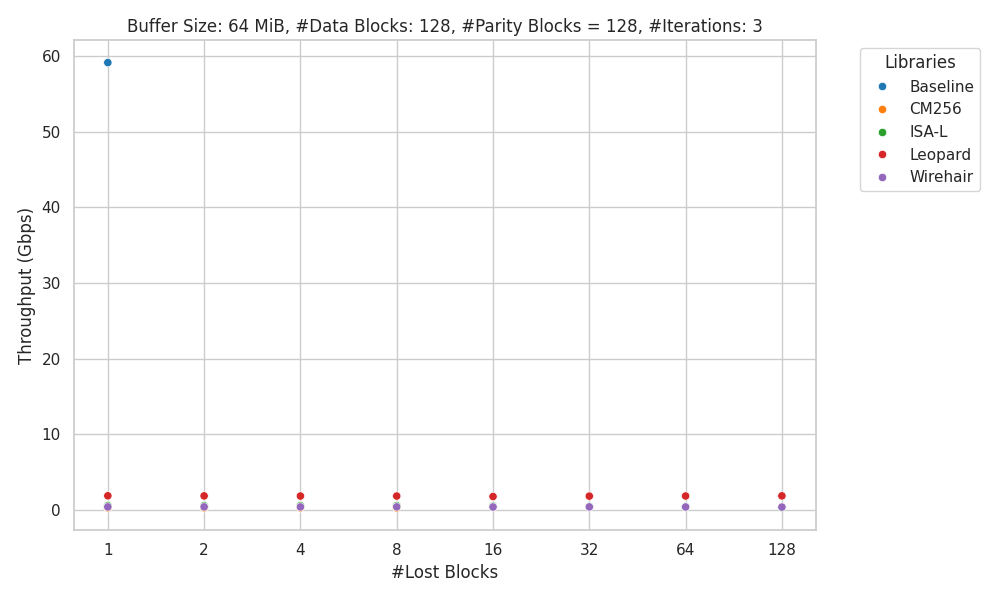
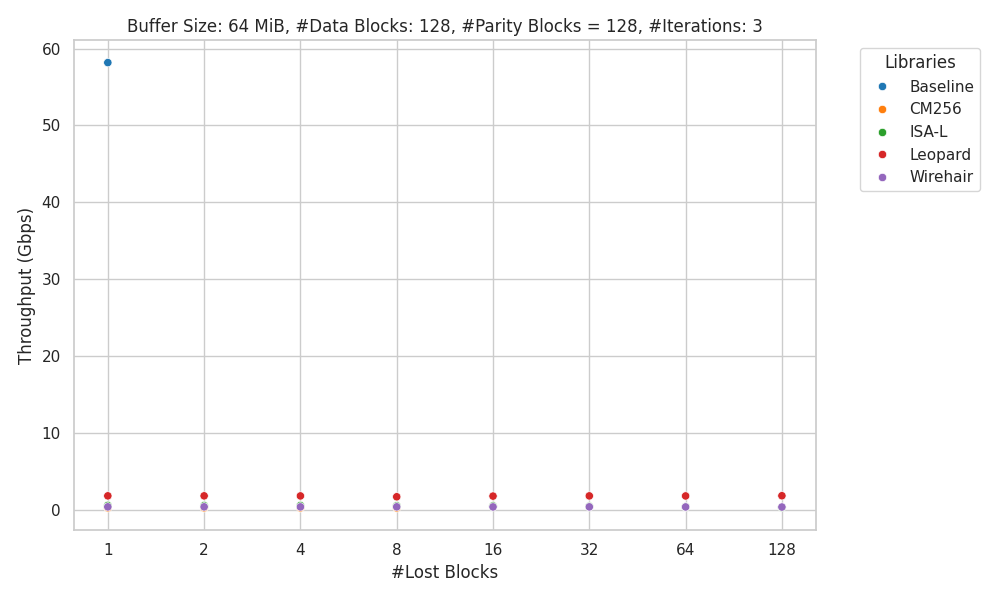
Adjusted outputwriter to precompute metrics

diff --git a/include/generic_benchmark_runner.h b/include/generic_benchmark_runner.h
@@ -33,9 +33,17 @@ template <typename BenchmarkType>
 static void BM_generic(benchmark::State& state, const BenchmarkConfig& config) {
   BenchmarkType bench(config);
   std::vector<int64_t> enc_times(config.num_iterations);
+  std::vector<double> enc_throughputs(config.num_iterations);
+
   std::vector<int64_t> dec_times(config.num_iterations);
-  double enc_mean = 0;
-  double dec_mean = 0;
+  std::vector<double> dec_throughputs(config.num_iterations);
+
+  double enc_time_mean = 0;
+  double dec_time_mean = 0;
+
+  double enc_throughput_mean = 0;
+  double dec_throughput_mean = 0;
+
   unsigned it = 0;
 
   for (auto _ : state) {
@@ -57,72 +65,79 @@ static void BM_generic(benchmark::State& state, const BenchmarkConfig& config) {
     bench.teardown();
 
 
-    int64_t time_encode = std::chrono::duration_cast<std::chrono::nanoseconds>(end_encode - start_encode).count();
-    int64_t time_decode = std::chrono::duration_cast<std::chrono::nanoseconds>(end_decode - start_decode).count();
+    double time_encode = std::chrono::duration_cast<std::chrono::nanoseconds>(end_encode - start_encode).count();
+    double time_decode = std::chrono::duration_cast<std::chrono::nanoseconds>(end_decode - start_decode).count();
 
-    enc_mean += time_encode;
-    dec_mean += time_decode;
+    enc_time_mean += time_encode;
+    dec_time_mean += time_decode;
+
+    double enc_throughput = static_cast<double>((config.data_size * 8) / 1e9) / (time_encode / 1e9);
+    double dec_throughput = static_cast<double>((config.data_size * 8) / 1e9) / (time_decode / 1e9);
+
+    enc_throughput_mean += enc_throughput;
+    dec_throughput_mean += dec_throughput;
 
     enc_times[it] = time_encode;
     dec_times[it] = time_decode;
+
+    enc_throughputs[it] = enc_throughput;
+    dec_throughputs[it] = dec_throughput;
+
     ++it;
     
     state.SetIterationTime(static_cast<double>(time_encode+time_decode)/1e9);
   }
 
-  // Compute the standard deviation of the encode, decode and total times aswell as the max and min times for encoding, decoding and total
-  enc_mean /= config.num_iterations;
-  dec_mean /= config.num_iterations;
-  double tot_mean = enc_mean + dec_mean;
-  double enc_stddev = 0;
-  double dec_stddev = 0;
-  double tot_stddev = 0;
+  
+  enc_time_mean /= config.num_iterations;
+  dec_time_mean /= config.num_iterations;
+  enc_throughput_mean /= config.num_iterations;
+  dec_throughput_mean /= config.num_iterations;
 
-  long enc_max = enc_times[0];
-  long dec_max = dec_times[0];
-  long tot_max = enc_times[0] + dec_times[0];
 
-  long enc_min = enc_times[0];
-  long dec_min = dec_times[0];
-  long tot_min = enc_times[0] + dec_times[0];
+  double enc_time_stddev = 0;
+  double dec_time_stddev = 0;
+  double enc_throughput_stddev = 0;
+  double dec_throughput_stddev = 0;
+
+  
+
   for (unsigned i = 0; i < config.num_iterations; ++i) {
-    enc_stddev += std::pow(enc_times[i] - enc_mean, 2);
-    dec_stddev += std::pow(dec_times[i] - dec_mean, 2);
-    tot_stddev += std::pow((enc_times[i] + dec_times[i]) - tot_mean, 2);
+    enc_time_stddev += std::pow(enc_times[i] - enc_time_mean, 2);
+    dec_time_stddev += std::pow(dec_times[i] - dec_time_mean, 2);
 
-    enc_max = std::max(enc_max, enc_times[i]);
-    dec_max = std::max(dec_max, dec_times[i]);
-    tot_max = std::max(tot_max, enc_times[i] + dec_times[i]);
-
-    enc_min = std::min(enc_min, enc_times[i]);
-    dec_min = std::min(dec_min, dec_times[i]);
-    tot_min = std::min(tot_min, enc_times[i] + dec_times[i]);
+    enc_throughput_stddev += std::pow(enc_throughputs[i] - enc_throughput_mean, 2);
+    dec_throughput_stddev += std::pow(dec_throughputs[i] - dec_throughput_mean, 2);
   }
 
-  enc_stddev = std::sqrt(enc_stddev / (config.num_iterations-1));
-  dec_stddev = std::sqrt(dec_stddev / (config.num_iterations-1));
-  tot_stddev = std::sqrt(tot_stddev / (config.num_iterations-1));
+  enc_time_stddev = std::sqrt(enc_time_stddev / (config.num_iterations-1));
+  dec_time_stddev = std::sqrt(dec_time_stddev / (config.num_iterations-1));
+
+  enc_throughput_stddev = std::sqrt(enc_throughput_stddev / (config.num_iterations-1));
+  dec_throughput_stddev = std::sqrt(dec_throughput_stddev / (config.num_iterations-1));
+
+  double enc_throughput = static_cast<double>((config.data_size * 8) / 1e9) / (enc_time_mean / 1e9);
+  double dec_throughput = static_cast<double>((config.data_size * 8) / 1e9) / (dec_time_mean / 1e9);
 
 
   // Save results to counters
-  state.counters["encode_time_ns"] = enc_mean;
-  state.counters["decode_time_ns"] = dec_mean;
-  state.counters["encode_time_stddev_ns"] = enc_stddev;
-  state.counters["decode_time_stddev_ns"] = dec_stddev;
-  state.counters["tot_time_stddev_ns"] = tot_stddev;
-  state.counters["encode_time_max_ns"] = enc_max;
-  state.counters["decode_time_max_ns"] = dec_max;
-  state.counters["tot_time_max_ns"] = tot_max;
-  state.counters["encode_time_min_ns"] = enc_min;
-  state.counters["decode_time_min_ns"] = dec_min;
-  state.counters["tot_time_min_ns"] = tot_min;
-
+  state.counters["plot_id"] = config.plot_id;
   state.counters["tot_data_size_B"] = config.data_size;
   state.counters["block_size_B"] = config.block_size;
   state.counters["num_lost_blocks"] = config.num_lost_blocks;
   state.counters["redundancy_ratio"] = config.redundancy_ratio;
-  state.counters["plot_id"] = config.plot_id;
+  state.counters["num_data_blocks"] = config.computed.num_original_blocks;
+  state.counters["num_parity_blocks"] = config.computed.num_recovery_blocks;
 
+  state.counters["encode_time_ns"] = enc_time_mean;
+  state.counters["encode_time_stddev_ns"] = enc_time_stddev;
+  state.counters["encode_throughput_Gbps"] = enc_throughput;
+  state.counters["encode_throughput_stddev_Gbps"] = enc_throughput_stddev;
+
+  state.counters["decode_time_ns"] = dec_time_mean;
+  state.counters["decode_time_stddev_ns"] = dec_time_stddev;
+  state.counters["decode_throughput_Gbps"] = dec_throughput;
+  state.counters["decode_throughput_stddev_Gbps"] = dec_throughput_stddev;
 }
 
 #endif // GENERIC_BENCHMARK_RUNNER_H

diff --git a/src/benchmark_result_writer.cpp b/src/benchmark_result_writer.cpp
@@ -16,26 +16,26 @@ BenchmarkCSVReporter::BenchmarkCSVReporter(const std::string& output_file, bool 
     file  << "plot_id,"
           << "name,"
           << "err_msg,"
+
           << "num_iterations,"
           << "tot_data_size_B,"
           << "block_size_B,"
           << "num_lost_blocks,"
           << "redundancy_ratio,"
+          << "num_data_blocks,"
+          << "num_parity_blocks,"
 
           << "time_ns,"
-          << "tot_time_stddev_ns,"
-          << "tot_time_min_ns,"
-          << "tot_time_max_ns,"
 
           << "encode_time_ns,"
           << "encode_time_stddev_ns,"
-          << "encode_time_min_ns,"
-          << "encode_time_max_ns,"
+          << "encode_throughput_Gbps,"
+          << "encode_throughput_stddev_Gbps,"
 
           << "decode_time_ns,"
           << "encode_time_stddev_ns,"
-          << "decode_time_min_ns,"
-          << "decode_time_max_ns\n";
+          << "decode_throughput_Gbps,"
+          << "decode_throughput_stddev_Gbps\n";
           
   }
 }
@@ -49,26 +49,28 @@ void BenchmarkCSVReporter::ReportRuns(const std::vector<Run>& runs) {
     file  << static_cast<uint32_t>(run.counters.find("plot_id")->second.value) << ","
           << run.benchmark_name() << ","
           << run.skip_message << ","
+
           << run.iterations << ","
           << static_cast<uint64_t>(run.counters.find("tot_data_size_B")->second.value) << "," 
           << static_cast<uint64_t>(run.counters.find("block_size_B")->second.value) << ","
           << static_cast<uint32_t>(run.counters.find("num_lost_blocks")->second.value) << ","
           << run.counters.find("redundancy_ratio")->second.value << ","
+          << static_cast<uint32_t>(run.counters.find("num_data_blocks")->second.value) << ","
+          << static_cast<uint32_t>(run.counters.find("num_parity_blocks")->second.value) << ","
 
           << run.GetAdjustedRealTime() << ","
-          << run.counters.find("tot_time_stddev_ns")->second.value << ","
-          << run.counters.find("tot_time_min_ns")->second.value << ","
-          << run.counters.find("tot_time_max_ns")->second.value << ","
+
           
           << run.counters.find("encode_time_ns")->second.value << ","
           << run.counters.find("encode_time_stddev_ns")->second.value << ","
-          << run.counters.find("encode_time_min_ns")->second.value << ","
-          << run.counters.find("encode_time_max_ns")->second.value << ","
+          << run.counters.find("encode_throughput_Gbps")->second.value << ","
+          << run.counters.find("encode_throughput_stddev_Gbps")->second.value << ","
+
 
           << run.counters.find("decode_time_ns")->second.value << ","
           << run.counters.find("decode_time_stddev_ns")->second.value << ","
-          << run.counters.find("decode_time_min_ns")->second.value << ","
-          << run.counters.find("decode_time_max_ns")->second.value << "\n";
+          << run.counters.find("decode_throughput_Gbps")->second.value << ","
+          << run.counters.find("decode_throughput_stddev_Gbps")->second.value << "\n";
   }
 }
 

diff --git a/scripts/plot_benchmark_results.py b/scripts/plot_benchmark_results.py
@@ -2,6 +2,7 @@ import os
 import pandas as pd
 import matplotlib.pyplot as plt
 import seaborn as sns
+import math
 
 # File / directory paths
 SCRIPT_DIR = os.path.dirname(os.path.abspath(__file__))
@@ -74,11 +75,18 @@ def process_dataframe(df: pd.DataFrame):
   df["tot_data_size_MiB"] = df["tot_data_size_B"] // (1024 * 1024)
   df["throughput_Gbps"] = (df["tot_data_size_B"] * 8) / df["time_ns"]
   df["num_data_blocks"] = df["tot_data_size_B"] // df["block_size_B"]
-  df["num_recovery_blocks"] = (df["redundancy_ratio"] * df["num_data_blocks"]).astype(int)
+  df["num_parity_blocks"] = (df["redundancy_ratio"] * df["num_data_blocks"]).astype(int)
 
   # Return DataFrame grouped by plot_id
   # return {plot_id: group for plot_id, group in df.groupby("plot_id")}
 
+def get_confidence_interval(mean: float, stddev: float, n: int) -> tuple[float, float]:
+  """Get the confidence interval for the mean."""
+  z = 1.96 # 95% confidence interval
+  lower = mean - z * (stddev / math.sqrt(n))
+  upper = mean + z * (stddev / math.sqrt(n))
+
+  return lower, upper
 
 
 if __name__ == "__main__":
@@ -91,12 +99,10 @@ if __name__ == "__main__":
   # Remove rows where corruption occured
   df = df[df["err_msg"].isna()]
 
-  # Get additional columns (mainly different units of existing columns)
+  # Get additional columns 
   df["time_ms"] = df["time_ns"] / 1e6
   df["tot_data_size_MiB"] = df["tot_data_size_B"] // (1024 * 1024)
   df["throughput_Gbps"] = (df["tot_data_size_B"] * 8 / 1e9) / (df["time_ns"] / 1e9)
-  df["num_data_blocks"] = df["tot_data_size_B"] // df["block_size_B"]
-  df["num_recovery_blocks"] = (df["redundancy_ratio"] * df["num_data_blocks"]).astype(int)
 
   dfs = {plot_id: group for plot_id, group in df.groupby("plot_id")}
 
@@ -108,10 +114,10 @@ if __name__ == "__main__":
 
 
   # X: Num Parity Blocks, Y: Time
-  plot_scatter(dfs, "num_recovery_blocks", "time_ms", "#Parity Blocks", "Time (ms)", "parity_blocks_vs_time.png", 1)
+  plot_scatter(dfs, "num_parity_blocks", "time_ms", "#Parity Blocks", "Time (ms)", "parity_blocks_vs_time.png", 1)
 
   # X: Num Parity Blocks, Y: Throughput
-  plot_scatter(dfs, "num_recovery_blocks", "throughput_Gbps", "#Parity Blocks", "Throughput (Gbps)", "parity_blocks_vs_throughput.png", 1)
+  plot_scatter(dfs, "num_parity_blocks", "throughput_Gbps", "#Parity Blocks", "Throughput (Gbps)", "parity_blocks_vs_throughput.png", 1)
 
 
   # X: Num Lost Blocks, Y: Time

diff --git a/src/main.cpp b/src/main.cpp
@@ -20,12 +20,12 @@
 constexpr const char* OUTPUT_FILE_PATH = "../results/raw/";
 
 #if RUNNING_ON_DOCKER
-  constexpr uint32_t FIXED_NUM_ITERATIONS = 100;
+  constexpr uint32_t FIXED_NUM_ITERATIONS = 3;
   constexpr uint64_t FIXED_BUFFER_SIZE = 67108864; ///< 64 MiB
 
   const std::vector<uint64_t> VAR_BUFFER_SIZE = { 1048576, 2097152, 4194304, 8388608, 16777216, 33554432, 67108864, 134217728, 268435456 };
 #else
-  constexpr uint32_t FIXED_NUM_ITERATIONS = 2500;
+  constexpr uint32_t FIXED_NUM_ITERATIONS = 10000;
   constexpr uint64_t FIXED_BUFFER_SIZE = 1073741824; ///< 1 GiB
 
   const std::vector<uint64_t> VAR_BUFFER_SIZE = { 1048576, 2097152, 4194304, 8388608, 16777216, 33554432, 67108864, 134217728, 268435456, 536870912, 1073741824, 2147483648, 4294967296, 8589934592 };
